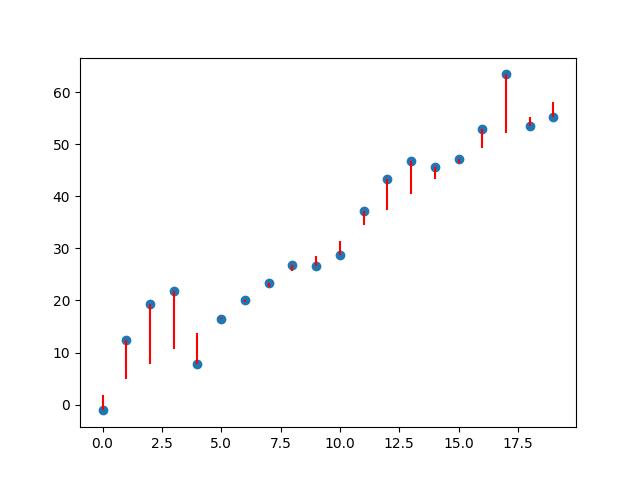
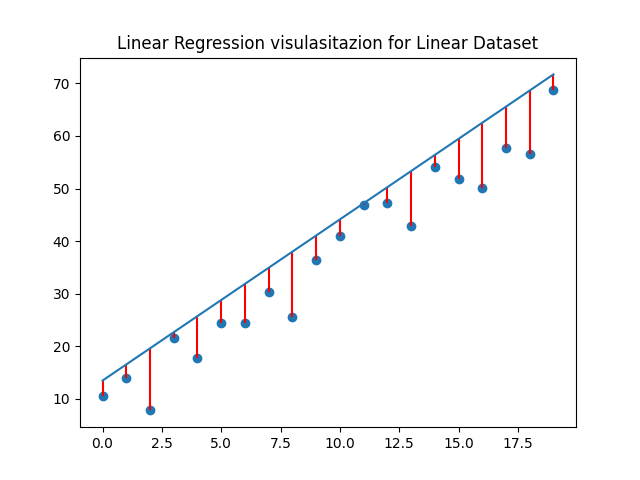
removed and added new files

diff --git a/linear.py b/linear.py
@@ -61,10 +61,12 @@ def distance(y,y_l):
 def mse(distance,x):
     return ((1/len(x)) * sum(distance))
 
-plt.savefig("assets/test_linear_mse")
+
 plt.title("Linear Regression visulasitazion for Linear Dataset")
 plt.plot(x,f,"-")
+plt.savefig("assets/test_linear_mse.png")
 plt.show()
+plt.close()
 
 
 
